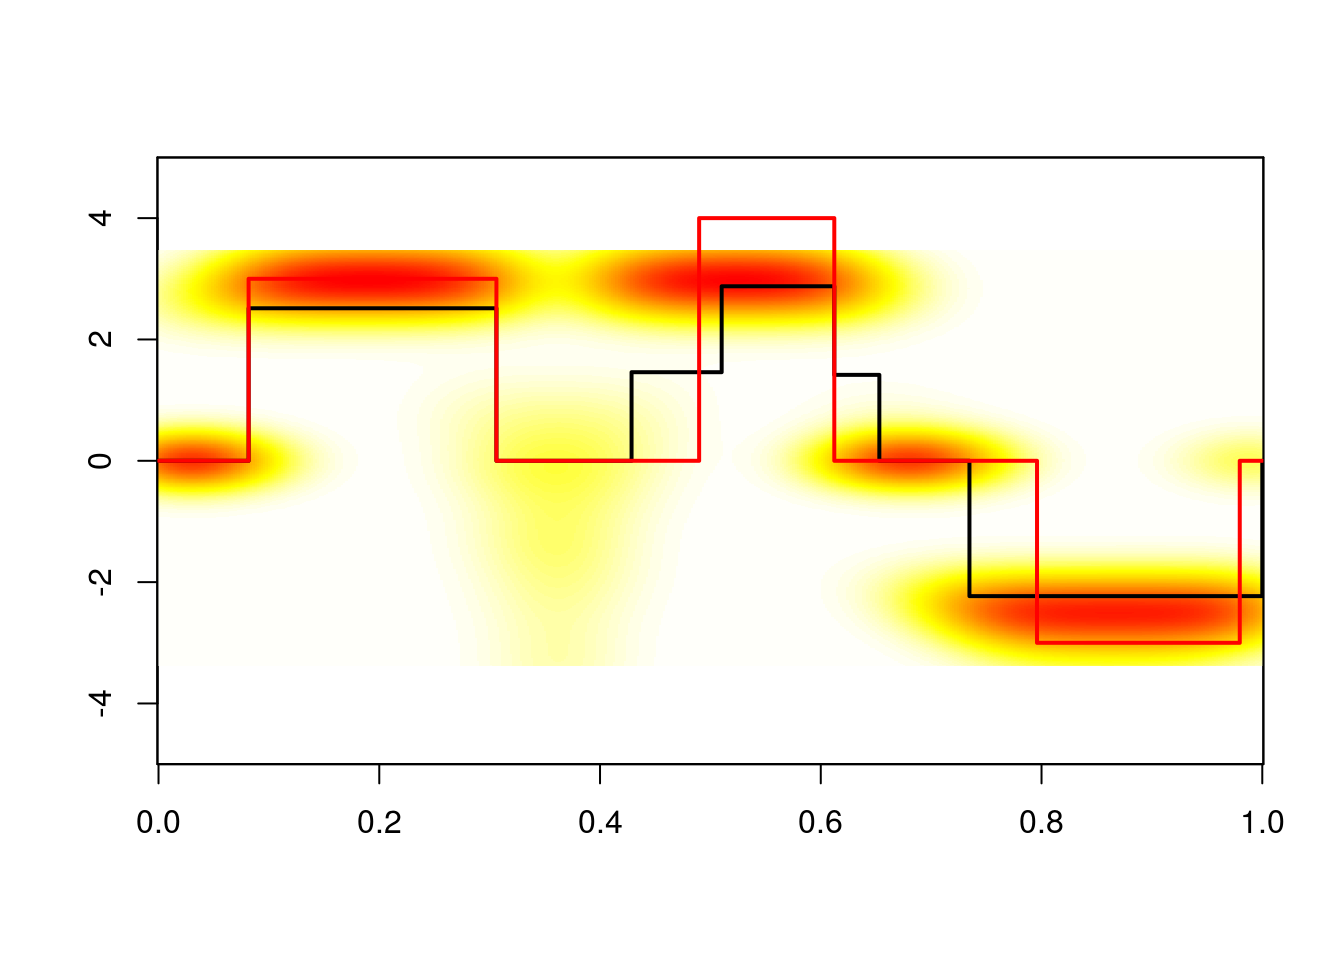
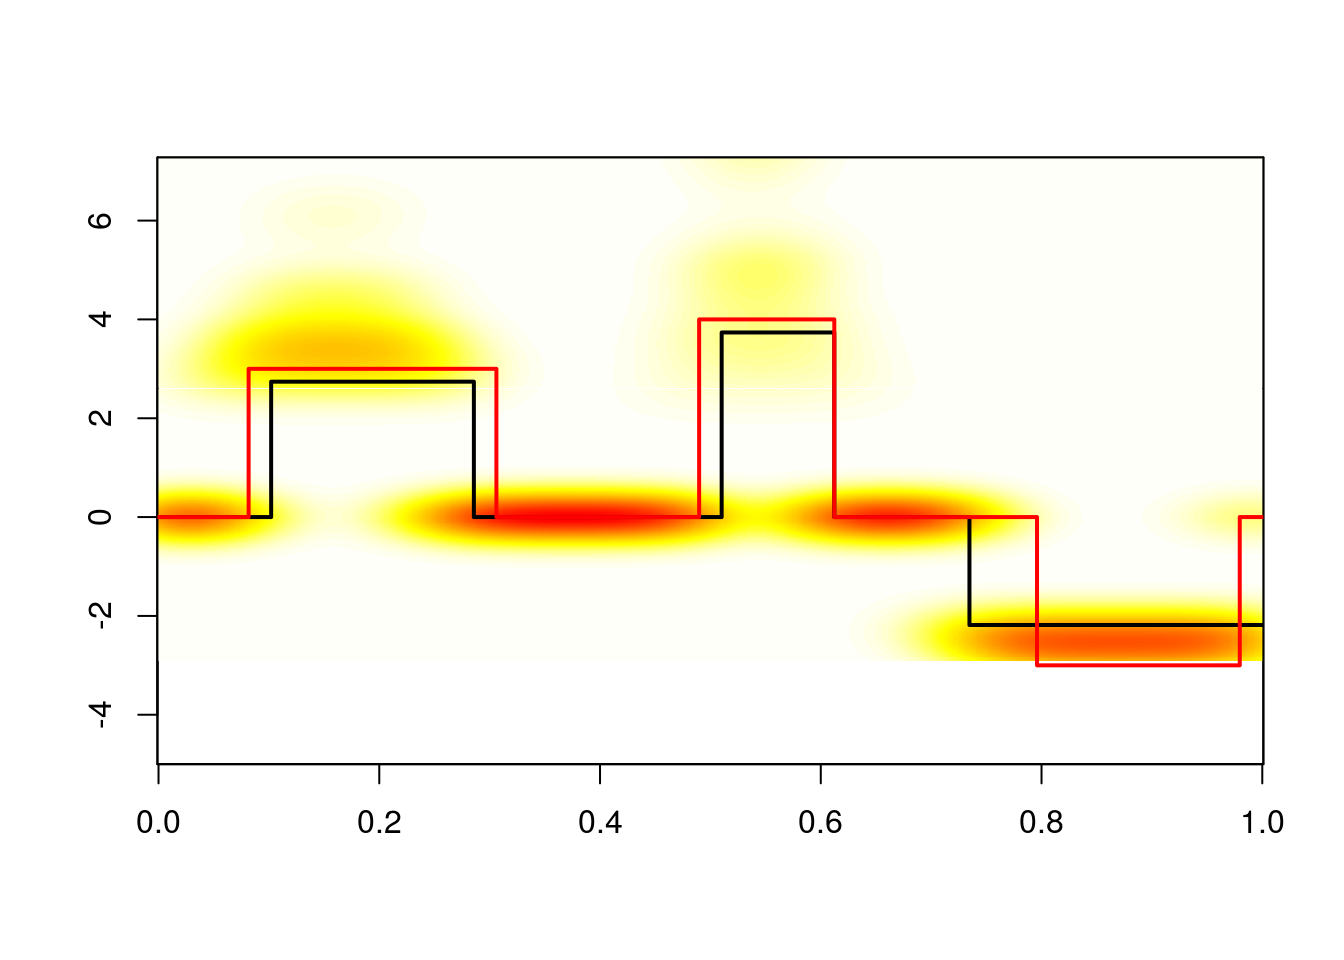
MaJ site web pkgdown

Changed region(s): [[0.0625, 0.1562, 0.9375, 0.7188], [0.0625, 0.7188, 0.125, 0.75], [0.0625, 0.5938, 0.0938, 0.6562]]

diff --git a/docs/articles/BlissIntro.html b/docs/articles/BlissIntro.html
@@ -73,7 +73,7 @@
       <h1>Introduction to BLiSS method</h1>
                         <h4 class="author">Paul-Marie Grollemund</h4>
             
-            <h4 class="date">2020-08-27</h4>
+            <h4 class="date">2020-08-28</h4>
       
       
       <div class="hidden name"><code>BlissIntro.Rmd</code></div>
@@ -163,42 +163,42 @@
 <a class="sourceLine" id="cb3-31" data-line-number="31">  <span class="kw"><a href="https://www.rdocumentation.org/packages/utils/topics/str">str</a></span>(res_bliss)</a>
 <a class="sourceLine" id="cb3-32" data-line-number="32"><span class="co">#&gt; List of 12</span></a>
 <a class="sourceLine" id="cb3-33" data-line-number="33"><span class="co">#&gt;  $ alpha                 :List of 1</span></a>
-<a class="sourceLine" id="cb3-34" data-line-number="34"><span class="co">#&gt;   ..$ : num [1:50] 0.142 0.176 0.251 0.417 0.705 ...</span></a>
+<a class="sourceLine" id="cb3-34" data-line-number="34"><span class="co">#&gt;   ..$ : num [1:50] 0.03 0.046 0.14 0.383 0.715 ...</span></a>
 <a class="sourceLine" id="cb3-35" data-line-number="35"><span class="co">#&gt;  $ beta_posterior_density:List of 1</span></a>
 <a class="sourceLine" id="cb3-36" data-line-number="36"><span class="co">#&gt;   ..$ :List of 4</span></a>
 <a class="sourceLine" id="cb3-37" data-line-number="37"><span class="co">#&gt;   .. ..$ grid_t         : num [1:512] 0 0.00196 0.00391 0.00587 0.00783 ...</span></a>
-<a class="sourceLine" id="cb3-38" data-line-number="38"><span class="co">#&gt;   .. ..$ grid_beta_t    : num [1:512] -3.38 -3.37 -3.35 -3.34 -3.33 ...</span></a>
-<a class="sourceLine" id="cb3-39" data-line-number="39"><span class="co">#&gt;   .. ..$ density        : num [1:512, 1:512] 2.76e-18 4.21e-18 6.42e-18 9.75e-18 1.48e-17 ...</span></a>
+<a class="sourceLine" id="cb3-38" data-line-number="38"><span class="co">#&gt;   .. ..$ grid_beta_t    : num [1:512] -2.91 -2.89 -2.87 -2.85 -2.83 ...</span></a>
+<a class="sourceLine" id="cb3-39" data-line-number="39"><span class="co">#&gt;   .. ..$ density        : num [1:512, 1:512] 4.43e-17 4.54e-17 4.66e-17 4.76e-17 4.86e-17 ...</span></a>
 <a class="sourceLine" id="cb3-40" data-line-number="40"><span class="co">#&gt;   .. ..$ new_beta_sample: num [1:800, 1:50] 0 0 0 0 0 0 0 0 0 0 ...</span></a>
 <a class="sourceLine" id="cb3-41" data-line-number="41"><span class="co">#&gt;  $ beta_sample           :List of 1</span></a>
-<a class="sourceLine" id="cb3-42" data-line-number="42"><span class="co">#&gt;   ..$ : num [1:1001, 1:50] -1.58 0 0 0 0 ...</span></a>
+<a class="sourceLine" id="cb3-42" data-line-number="42"><span class="co">#&gt;   ..$ : num [1:1001, 1:50] 0 0 0 0 0 ...</span></a>
 <a class="sourceLine" id="cb3-43" data-line-number="43"><span class="co">#&gt;  $ Bliss_estimate        :List of 1</span></a>
-<a class="sourceLine" id="cb3-44" data-line-number="44"><span class="co">#&gt;   ..$ : num [1:50, 1] 0 0 0 0 2.51 ...</span></a>
+<a class="sourceLine" id="cb3-44" data-line-number="44"><span class="co">#&gt;   ..$ : num [1:50, 1] 0 0 0 0 0 ...</span></a>
 <a class="sourceLine" id="cb3-45" data-line-number="45"><span class="co">#&gt;  $ chains                : NULL</span></a>
 <a class="sourceLine" id="cb3-46" data-line-number="46"><span class="co">#&gt;  $ chains_info           :List of 1</span></a>
 <a class="sourceLine" id="cb3-47" data-line-number="47"><span class="co">#&gt;   ..$ :List of 2</span></a>
 <a class="sourceLine" id="cb3-48" data-line-number="48"><span class="co">#&gt;   .. ..$ estimates   :List of 3</span></a>
-<a class="sourceLine" id="cb3-49" data-line-number="49"><span class="co">#&gt;   .. .. ..$ mu_hat         : num 1.05</span></a>
-<a class="sourceLine" id="cb3-50" data-line-number="50"><span class="co">#&gt;   .. .. ..$ sigma_sq_hat   : num 0.483</span></a>
-<a class="sourceLine" id="cb3-51" data-line-number="51"><span class="co">#&gt;   .. .. ..$ Smooth_estimate: num [1:50] 0.358 0.449 0.661 1.142 2.018 ...</span></a>
-<a class="sourceLine" id="cb3-52" data-line-number="52"><span class="co">#&gt;   .. ..$ autocorr_lag: num [1:50, 1:3] -0.0523 0.1839 0.0451 -0.0605 0.0238 ...</span></a>
+<a class="sourceLine" id="cb3-49" data-line-number="49"><span class="co">#&gt;   .. .. ..$ mu_hat         : num 0.974</span></a>
+<a class="sourceLine" id="cb3-50" data-line-number="50"><span class="co">#&gt;   .. .. ..$ sigma_sq_hat   : num 0.362</span></a>
+<a class="sourceLine" id="cb3-51" data-line-number="51"><span class="co">#&gt;   .. .. ..$ Smooth_estimate: num [1:50] 0.0663 0.1076 0.3773 1.1636 2.3866 ...</span></a>
+<a class="sourceLine" id="cb3-52" data-line-number="52"><span class="co">#&gt;   .. ..$ autocorr_lag: num [1:50, 1:3] -0.645 0.1134 -0.0437 0.0945 0.0605 ...</span></a>
 <a class="sourceLine" id="cb3-53" data-line-number="53"><span class="co">#&gt;   .. .. ..- attr(*, "dimnames")=List of 2</span></a>
 <a class="sourceLine" id="cb3-54" data-line-number="54"><span class="co">#&gt;   .. .. .. ..$ : NULL</span></a>
 <a class="sourceLine" id="cb3-55" data-line-number="55"><span class="co">#&gt;   .. .. .. ..$ : chr [1:3] "mu" "sigma_sq" "beta"</span></a>
 <a class="sourceLine" id="cb3-56" data-line-number="56"><span class="co">#&gt;  $ data                  :List of 6</span></a>
 <a class="sourceLine" id="cb3-57" data-line-number="57"><span class="co">#&gt;   ..$ Q     : num 1</span></a>
-<a class="sourceLine" id="cb3-58" data-line-number="58"><span class="co">#&gt;   ..$ y     : num [1:100] 1.533 0.8 1.584 2.689 0.728 ...</span></a>
+<a class="sourceLine" id="cb3-58" data-line-number="58"><span class="co">#&gt;   ..$ y     : num [1:100] 2.104 0.886 0.49 0.757 0.369 ...</span></a>
 <a class="sourceLine" id="cb3-59" data-line-number="59"><span class="co">#&gt;   ..$ x     :List of 1</span></a>
-<a class="sourceLine" id="cb3-60" data-line-number="60"><span class="co">#&gt;   .. ..$ : num [1:100, 1:50] 0.238 -0.361 1.255 0.408 1.049 ...</span></a>
-<a class="sourceLine" id="cb3-61" data-line-number="61"><span class="co">#&gt;   .. .. ..- attr(*, "scaled:center")= num [1:50] 0.871 0.799 0.73 0.667 0.608 ...</span></a>
+<a class="sourceLine" id="cb3-60" data-line-number="60"><span class="co">#&gt;   .. ..$ : num [1:100, 1:50] 1.6845 -1.0309 0.2719 -1.2932 -0.0951 ...</span></a>
+<a class="sourceLine" id="cb3-61" data-line-number="61"><span class="co">#&gt;   .. .. ..- attr(*, "scaled:center")= num [1:50] 0.9 0.841 0.793 0.75 0.718 ...</span></a>
 <a class="sourceLine" id="cb3-62" data-line-number="62"><span class="co">#&gt;   ..$ betas :List of 1</span></a>
 <a class="sourceLine" id="cb3-63" data-line-number="63"><span class="co">#&gt;   .. ..$ : num [1:50] 0 0 0 0 3 3 3 3 3 3 ...</span></a>
 <a class="sourceLine" id="cb3-64" data-line-number="64"><span class="co">#&gt;   ..$ grids :List of 1</span></a>
 <a class="sourceLine" id="cb3-65" data-line-number="65"><span class="co">#&gt;   .. ..$ : num [1:50] 0 0.0204 0.0408 0.0612 0.0816 ...</span></a>
 <a class="sourceLine" id="cb3-66" data-line-number="66"><span class="co">#&gt;   ..$ x_save:List of 1</span></a>
-<a class="sourceLine" id="cb3-67" data-line-number="67"><span class="co">#&gt;   .. ..$ : num [1:100, 1:50] 1.11 0.51 2.13 1.28 1.92 ...</span></a>
+<a class="sourceLine" id="cb3-67" data-line-number="67"><span class="co">#&gt;   .. ..$ : num [1:100, 1:50] 2.585 -0.131 1.172 -0.393 0.805 ...</span></a>
 <a class="sourceLine" id="cb3-68" data-line-number="68"><span class="co">#&gt;  $ posterior_sample      :List of 3</span></a>
-<a class="sourceLine" id="cb3-69" data-line-number="69"><span class="co">#&gt;   ..$ trace            : num [1:1001, 1:11] -0.273 0.92 -0.442 -0.807 -0.982 ...</span></a>
+<a class="sourceLine" id="cb3-69" data-line-number="69"><span class="co">#&gt;   ..$ trace            : num [1:1001, 1:11] 0.324 -1.09 0.493 -0.637 -0.116 ...</span></a>
 <a class="sourceLine" id="cb3-70" data-line-number="70"><span class="co">#&gt;   .. ..- attr(*, "dimnames")=List of 2</span></a>
 <a class="sourceLine" id="cb3-71" data-line-number="71"><span class="co">#&gt;   .. .. ..$ : NULL</span></a>
 <a class="sourceLine" id="cb3-72" data-line-number="72"><span class="co">#&gt;   .. .. ..$ : chr [1:11] "b_1" "b_2" "b_3" "m_1" ...</span></a>
@@ -208,28 +208,28 @@
 <a class="sourceLine" id="cb3-76" data-line-number="76"><span class="co">#&gt;   .. ..$ K                   : num [1, 1] 3</span></a>
 <a class="sourceLine" id="cb3-77" data-line-number="77"><span class="co">#&gt;   .. ..$ l_values_length     : num [1, 1] 49</span></a>
 <a class="sourceLine" id="cb3-78" data-line-number="78"><span class="co">#&gt;   .. ..$ potential_intervals :List of 1</span></a>
-<a class="sourceLine" id="cb3-79" data-line-number="79"><span class="co">#&gt;   .. .. ..$ : num [1:50, 1:49, 1:100] 0.237 0.219 0.201 0.199 0.21 ...</span></a>
+<a class="sourceLine" id="cb3-79" data-line-number="79"><span class="co">#&gt;   .. .. ..$ : num [1:50, 1:49, 1:100] 2.14 2.26 2.38 2.48 2.5 ...</span></a>
 <a class="sourceLine" id="cb3-80" data-line-number="80"><span class="co">#&gt;   .. ..$ grids               :List of 1</span></a>
 <a class="sourceLine" id="cb3-81" data-line-number="81"><span class="co">#&gt;   .. .. ..$ : num [1:50] 0 0.0204 0.0408 0.0612 0.0816 ...</span></a>
 <a class="sourceLine" id="cb3-82" data-line-number="82"><span class="co">#&gt;   .. ..$ normalization_values:List of 1</span></a>
-<a class="sourceLine" id="cb3-83" data-line-number="83"><span class="co">#&gt;   .. .. ..$ : num [1:50, 1:49] 0.152 0.196 0.213 0.21 0.211 ...</span></a>
-<a class="sourceLine" id="cb3-84" data-line-number="84"><span class="co">#&gt;   ..$ posterior_density: num [1:1001, 1:6] 0.00 1.10e-137 2.22e-79 8.91e-29 1.33e-03 ...</span></a>
+<a class="sourceLine" id="cb3-83" data-line-number="83"><span class="co">#&gt;   .. .. ..$ : num [1:50, 1:49] 0.149 0.203 0.232 0.261 0.278 ...</span></a>
+<a class="sourceLine" id="cb3-84" data-line-number="84"><span class="co">#&gt;   ..$ posterior_density: num [1:1001, 1:6] 0.00 3.47e-122 2.65e-62 1.20e-06 4.06e-04 ...</span></a>
 <a class="sourceLine" id="cb3-85" data-line-number="85"><span class="co">#&gt;   .. ..- attr(*, "dimnames")=List of 2</span></a>
 <a class="sourceLine" id="cb3-86" data-line-number="86"><span class="co">#&gt;   .. .. ..$ : NULL</span></a>
 <a class="sourceLine" id="cb3-87" data-line-number="87"><span class="co">#&gt;   .. .. ..$ : chr [1:6] "posterior density" "log posterior density" "likelihood" "log likelihood" ...</span></a>
 <a class="sourceLine" id="cb3-88" data-line-number="88"><span class="co">#&gt;  $ Smooth_estimate       :List of 1</span></a>
-<a class="sourceLine" id="cb3-89" data-line-number="89"><span class="co">#&gt;   ..$ : num [1:50, 1] 0.358 0.449 0.661 1.142 2.018 ...</span></a>
+<a class="sourceLine" id="cb3-89" data-line-number="89"><span class="co">#&gt;   ..$ : num [1:50, 1] 0.0663 0.1076 0.3773 1.1636 2.3866 ...</span></a>
 <a class="sourceLine" id="cb3-90" data-line-number="90"><span class="co">#&gt;  $ support_estimate      :List of 1</span></a>
-<a class="sourceLine" id="cb3-91" data-line-number="91"><span class="co">#&gt;   ..$ :'data.frame': 2 obs. of  2 variables:</span></a>
-<a class="sourceLine" id="cb3-92" data-line-number="92"><span class="co">#&gt;   .. ..$ begin: num [1:2] 5 37</span></a>
-<a class="sourceLine" id="cb3-93" data-line-number="93"><span class="co">#&gt;   .. ..$ end  : num [1:2] 32 50</span></a>
+<a class="sourceLine" id="cb3-91" data-line-number="91"><span class="co">#&gt;   ..$ :'data.frame': 3 obs. of  2 variables:</span></a>
+<a class="sourceLine" id="cb3-92" data-line-number="92"><span class="co">#&gt;   .. ..$ begin: num [1:3] 5 26 37</span></a>
+<a class="sourceLine" id="cb3-93" data-line-number="93"><span class="co">#&gt;   .. ..$ end  : num [1:3] 13 29 50</span></a>
 <a class="sourceLine" id="cb3-94" data-line-number="94"><span class="co">#&gt;  $ support_estimate_fct  :List of 1</span></a>
 <a class="sourceLine" id="cb3-95" data-line-number="95"><span class="co">#&gt;   ..$ : num [1:50] 0 0 0 0 1 1 1 1 1 1 ...</span></a>
 <a class="sourceLine" id="cb3-96" data-line-number="96"><span class="co">#&gt;  $ trace_sann            :List of 1</span></a>
-<a class="sourceLine" id="cb3-97" data-line-number="97"><span class="co">#&gt;   ..$ : num [1:50001, 1:16] 0.451 0.451 0.195 0.195 0.125 ...</span></a>
+<a class="sourceLine" id="cb3-97" data-line-number="97"><span class="co">#&gt;   ..$ : num [1:50001, 1:13] 0.574 0.574 0.574 0.353 0.353 ...</span></a>
 <a class="sourceLine" id="cb3-98" data-line-number="98"><span class="co">#&gt;   .. ..- attr(*, "dimnames")=List of 2</span></a>
 <a class="sourceLine" id="cb3-99" data-line-number="99"><span class="co">#&gt;   .. .. ..$ : NULL</span></a>
-<a class="sourceLine" id="cb3-100" data-line-number="100"><span class="co">#&gt;   .. .. ..$ : chr [1:16] "b_1" "b_2" "b_3" "b_4" ...</span></a>
+<a class="sourceLine" id="cb3-100" data-line-number="100"><span class="co">#&gt;   .. .. ..$ : chr [1:13] "b_1" "b_2" "b_3" "m_1" ...</span></a>
 <a class="sourceLine" id="cb3-101" data-line-number="101"><span class="co">#&gt;  - attr(*, "class")= chr "bliss"</span></a></code></pre></div>
 </div>
 <div id="plot-the-result" class="section level2">

diff --git a/docs/reference/sim.html b/docs/reference/sim.html
@@ -179,9 +179,7 @@
 #&gt; [19]  2.9107654  0.3339259  2.5338843 -1.3624436  3.0937524 -3.1729933
 #&gt; [25]  1.5329976</div><div class='input'><span class='no'>cols</span> <span class='kw'>&lt;-</span> <span class='fu'><a href='https://www.rdocumentation.org/packages/grDevices/topics/colorRamp'>colorRampPalette</a></span>(<span class='fu'><a href='https://www.rdocumentation.org/packages/RColorBrewer/topics/ColorBrewer'>brewer.pal</a></span>(<span class='fl'>9</span>,<span class='st'>"YlOrRd"</span>))(<span class='fl'>10</span>)
 <span class='no'>q</span><span class='kw'>=</span><span class='fl'>2</span>
-<span class='fu'><a href='https://www.rdocumentation.org/packages/graphics/topics/par'>par</a></span>(<span class='kw'>mfrow</span><span class='kw'>=</span><span class='fu'><a href='https://www.rdocumentation.org/packages/base/topics/c'>c</a></span>(<span class='fl'>2</span>,<span class='fl'>1</span>))
-<span class='fu'><a href='https://www.rdocumentation.org/packages/graphics/topics/matplot'>matplot</a></span>(<span class='no'>data</span>$<span class='no'>grids</span><span class='kw'>[[</span><span class='no'>q</span>]],<span class='fu'><a href='https://www.rdocumentation.org/packages/base/topics/t'>t</a></span>(<span class='no'>data</span>$<span class='no'>x</span><span class='kw'>[[</span><span class='no'>q</span>]]),<span class='kw'>type</span><span class='kw'>=</span><span class='st'>"l"</span>,<span class='kw'>lty</span><span class='kw'>=</span><span class='fl'>1</span>,<span class='kw'>col</span><span class='kw'>=</span><span class='no'>cols</span>)
-<span class='fu'><a href='https://www.rdocumentation.org/packages/graphics/topics/plot'>plot</a></span>(<span class='no'>data</span>$<span class='no'>grids</span><span class='kw'>[[</span><span class='no'>q</span>]],<span class='no'>data</span>$<span class='no'>betas</span><span class='kw'>[[</span><span class='no'>q</span>]],<span class='kw'>type</span><span class='kw'>=</span><span class='st'>"l"</span>)</div><div class='input'><span class='fu'><a href='https://www.rdocumentation.org/packages/graphics/topics/abline'>abline</a></span>(<span class='kw'>h</span><span class='kw'>=</span><span class='fl'>0</span>,<span class='kw'>lty</span><span class='kw'>=</span><span class='fl'>2</span>,<span class='kw'>col</span><span class='kw'>=</span><span class='st'>"gray"</span>)</div><div class='img'><img src='sim-1.png' alt='' width='700' height='433' /></div><div class='input'><span class='fu'><a href='https://www.rdocumentation.org/packages/graphics/topics/par'>par</a></span>(<span class='kw'>mfrow</span><span class='kw'>=</span><span class='fu'><a href='https://www.rdocumentation.org/packages/base/topics/c'>c</a></span>(<span class='fl'>1</span>,<span class='fl'>1</span>))</div></pre>
+<span class='fu'><a href='https://www.rdocumentation.org/packages/graphics/topics/matplot'>matplot</a></span>(<span class='no'>data</span>$<span class='no'>grids</span><span class='kw'>[[</span><span class='no'>q</span>]],<span class='fu'><a href='https://www.rdocumentation.org/packages/base/topics/t'>t</a></span>(<span class='no'>data</span>$<span class='no'>x</span><span class='kw'>[[</span><span class='no'>q</span>]]),<span class='kw'>type</span><span class='kw'>=</span><span class='st'>"l"</span>,<span class='kw'>lty</span><span class='kw'>=</span><span class='fl'>1</span>,<span class='kw'>col</span><span class='kw'>=</span><span class='no'>cols</span>)</div><div class='img'><img src='sim-1.png' alt='' width='700' height='433' /></div><div class='input'><span class='fu'><a href='https://www.rdocumentation.org/packages/graphics/topics/plot'>plot</a></span>(<span class='no'>data</span>$<span class='no'>grids</span><span class='kw'>[[</span><span class='no'>q</span>]],<span class='no'>data</span>$<span class='no'>betas</span><span class='kw'>[[</span><span class='no'>q</span>]],<span class='kw'>type</span><span class='kw'>=</span><span class='st'>"l"</span>)</div><div class='input'><span class='fu'><a href='https://www.rdocumentation.org/packages/graphics/topics/abline'>abline</a></span>(<span class='kw'>h</span><span class='kw'>=</span><span class='fl'>0</span>,<span class='kw'>lty</span><span class='kw'>=</span><span class='fl'>2</span>,<span class='kw'>col</span><span class='kw'>=</span><span class='st'>"gray"</span>)</div><div class='img'><img src='sim-2.png' alt='' width='700' height='433' /></div></pre>
   </div>
   <div class="col-md-3 hidden-xs hidden-sm" id="sidebar">
     <h2>Contents</h2>

diff --git a/docs/index.html b/docs/index.html
@@ -10,9 +10,10 @@
 <script src="https://cdnjs.cloudflare.com/ajax/libs/twitter-bootstrap/3.3.7/js/bootstrap.min.js" integrity="sha256-U5ZEeKfGNOja007MMD3YBI0A3OSZOQbeG6z2f2Y0hu8=" crossorigin="anonymous"></script><!-- Font Awesome icons --><link rel="stylesheet" href="https://cdnjs.cloudflare.com/ajax/libs/font-awesome/4.7.0/css/font-awesome.min.css" integrity="sha256-eZrrJcwDc/3uDhsdt61sL2oOBY362qM3lon1gyExkL0=" crossorigin="anonymous">
 <!-- clipboard.js --><script src="https://cdnjs.cloudflare.com/ajax/libs/clipboard.js/2.0.4/clipboard.min.js" integrity="sha256-FiZwavyI2V6+EXO1U+xzLG3IKldpiTFf3153ea9zikQ=" crossorigin="anonymous"></script><!-- sticky kit --><script src="https://cdnjs.cloudflare.com/ajax/libs/sticky-kit/1.1.3/sticky-kit.min.js" integrity="sha256-c4Rlo1ZozqTPE2RLuvbusY3+SU1pQaJC0TjuhygMipw=" crossorigin="anonymous"></script><!-- pkgdown --><link href="pkgdown.css" rel="stylesheet">
 <script src="pkgdown.js"></script><meta property="og:title" content="Bayesian Functional Linear Regression with Sparse Step Functions">
-<meta property="og:description" content="A method for the Bayesian Functional Linear Regression model (scalar-on-function),
+<meta property="og:description" content="A method for the Bayesian functional linear regression model (scalar-on-function),
   including two estimators of the coefficient function and an estimator of its support.
-  A representation of the posterior distribution is also available. Grollemund et. al. (2019) &lt;doi:10.1214/18-BA1095&gt;.">
+  A representation of the posterior distribution is also available. Grollemund P-M., Abraham C., 
+  Baragatti M., Pudlo P. (2019) &lt;doi:10.1214/18-BA1095&gt;.">
 <meta name="twitter:card" content="summary">
 <!-- mathjax --><script src="https://cdnjs.cloudflare.com/ajax/libs/mathjax/2.7.5/MathJax.js" integrity="sha256-nvJJv9wWKEm88qvoQl9ekL2J+k/RWIsaSScxxlsrv8k=" crossorigin="anonymous"></script><script src="https://cdnjs.cloudflare.com/ajax/libs/mathjax/2.7.5/config/TeX-AMS-MML_HTMLorMML.js" integrity="sha256-84DKXVJXs0/F8OTMzX4UR909+jtl4G7SPypPavF+GfA=" crossorigin="anonymous"></script><!--[if lt IE 9]>
 <script src="https://oss.maxcdn.com/html5shiv/3.7.3/html5shiv.min.js"></script>

diff --git a/docs/reference/plot_bliss.html b/docs/reference/plot_bliss.html
@@ -117,8 +117,7 @@
     <p>A suitable representation of the Bliss estimate.</p>
     </div>
 
-    <pre class="usage"><span class='fu'>plot_bliss</span>(<span class='no'>x</span>, <span class='no'>y</span>, <span class='kw'>connect</span> <span class='kw'>=</span> <span class='fl'>FALSE</span>, <span class='kw'>xlab</span> <span class='kw'>=</span> <span class='st'>""</span>, <span class='kw'>ylab</span> <span class='kw'>=</span> <span class='st'>""</span>,
-  <span class='kw'>ylim</span> <span class='kw'>=</span> <span class='kw'>NULL</span>, <span class='no'>...</span>)</pre>
+    <pre class="usage"><span class='fu'>plot_bliss</span>(<span class='no'>x</span>, <span class='no'>y</span>, <span class='kw'>connect</span> <span class='kw'>=</span> <span class='fl'>FALSE</span>, <span class='kw'>xlab</span> <span class='kw'>=</span> <span class='st'>""</span>, <span class='kw'>ylab</span> <span class='kw'>=</span> <span class='st'>""</span>, <span class='kw'>ylim</span> <span class='kw'>=</span> <span class='kw'>NULL</span>, <span class='no'>...</span>)</pre>
 
     <h2 class="hasAnchor" id="arguments"><a class="anchor" href="#arguments"></a>Arguments</h2>
     <table class="ref-arguments">

diff --git a/docs/reference/fit_Bliss.html b/docs/reference/fit_Bliss.html
@@ -119,8 +119,7 @@ Linear Regression model (with Q functional covariates)." />
 Linear Regression model (with Q functional covariates).</p>
     </div>
 
-    <pre class="usage"><span class='fu'>fit_Bliss</span>(<span class='no'>data</span>, <span class='no'>param</span>, <span class='kw'>compute_density</span> <span class='kw'>=</span> <span class='fl'>TRUE</span>, <span class='kw'>sann</span> <span class='kw'>=</span> <span class='fl'>TRUE</span>,
-  <span class='kw'>verbose</span> <span class='kw'>=</span> <span class='fl'>FALSE</span>)</pre>
+    <pre class="usage"><span class='fu'>fit_Bliss</span>(<span class='no'>data</span>, <span class='no'>param</span>, <span class='kw'>compute_density</span> <span class='kw'>=</span> <span class='fl'>TRUE</span>, <span class='kw'>sann</span> <span class='kw'>=</span> <span class='fl'>TRUE</span>, <span class='kw'>verbose</span> <span class='kw'>=</span> <span class='fl'>FALSE</span>)</pre>
 
     <h2 class="hasAnchor" id="arguments"><a class="anchor" href="#arguments"></a>Arguments</h2>
     <table class="ref-arguments">

diff --git a/docs/reference/interpretation_plot.html b/docs/reference/interpretation_plot.html
@@ -119,8 +119,7 @@
              with a focus on the detected periods with the Bliss method.</p>
     </div>
 
-    <pre class="usage"><span class='fu'>interpretation_plot</span>(<span class='no'>data</span>, <span class='no'>Bliss_estimate</span>, <span class='kw'>q</span> <span class='kw'>=</span> <span class='fl'>1</span>, <span class='kw'>centered</span> <span class='kw'>=</span> <span class='fl'>FALSE</span>,
-  <span class='kw'>cols</span> <span class='kw'>=</span> <span class='kw'>NULL</span>)</pre>
+    <pre class="usage"><span class='fu'>interpretation_plot</span>(<span class='no'>data</span>, <span class='no'>Bliss_estimate</span>, <span class='kw'>q</span> <span class='kw'>=</span> <span class='fl'>1</span>, <span class='kw'>centered</span> <span class='kw'>=</span> <span class='fl'>FALSE</span>, <span class='kw'>cols</span> <span class='kw'>=</span> <span class='kw'>NULL</span>)</pre>
 
     <h2 class="hasAnchor" id="arguments"><a class="anchor" href="#arguments"></a>Arguments</h2>
     <table class="ref-arguments">

diff --git a/docs/reference/Bliss_Simulated_Annealing.html b/docs/reference/Bliss_Simulated_Annealing.html
@@ -117,8 +117,12 @@
     <p>A Simulated Annealing algorithm to compute the Bliss estimate.</p>
     </div>
 
-    <pre class="usage"><span class='fu'>Bliss_Simulated_Annealing</span>(<span class='no'>beta_sample</span>, <span class='no'>normalization_values</span>, <span class='no'>param</span>,
-  <span class='kw'>verbose</span> <span class='kw'>=</span> <span class='fl'>FALSE</span>)</pre>
+    <pre class="usage"><span class='fu'>Bliss_Simulated_Annealing</span>(
+  <span class='no'>beta_sample</span>,
+  <span class='no'>normalization_values</span>,
+  <span class='no'>param</span>,
+  <span class='kw'>verbose</span> <span class='kw'>=</span> <span class='fl'>FALSE</span>
+)</pre>
 
     <h2 class="hasAnchor" id="arguments"><a class="anchor" href="#arguments"></a>Arguments</h2>
     <table class="ref-arguments">
